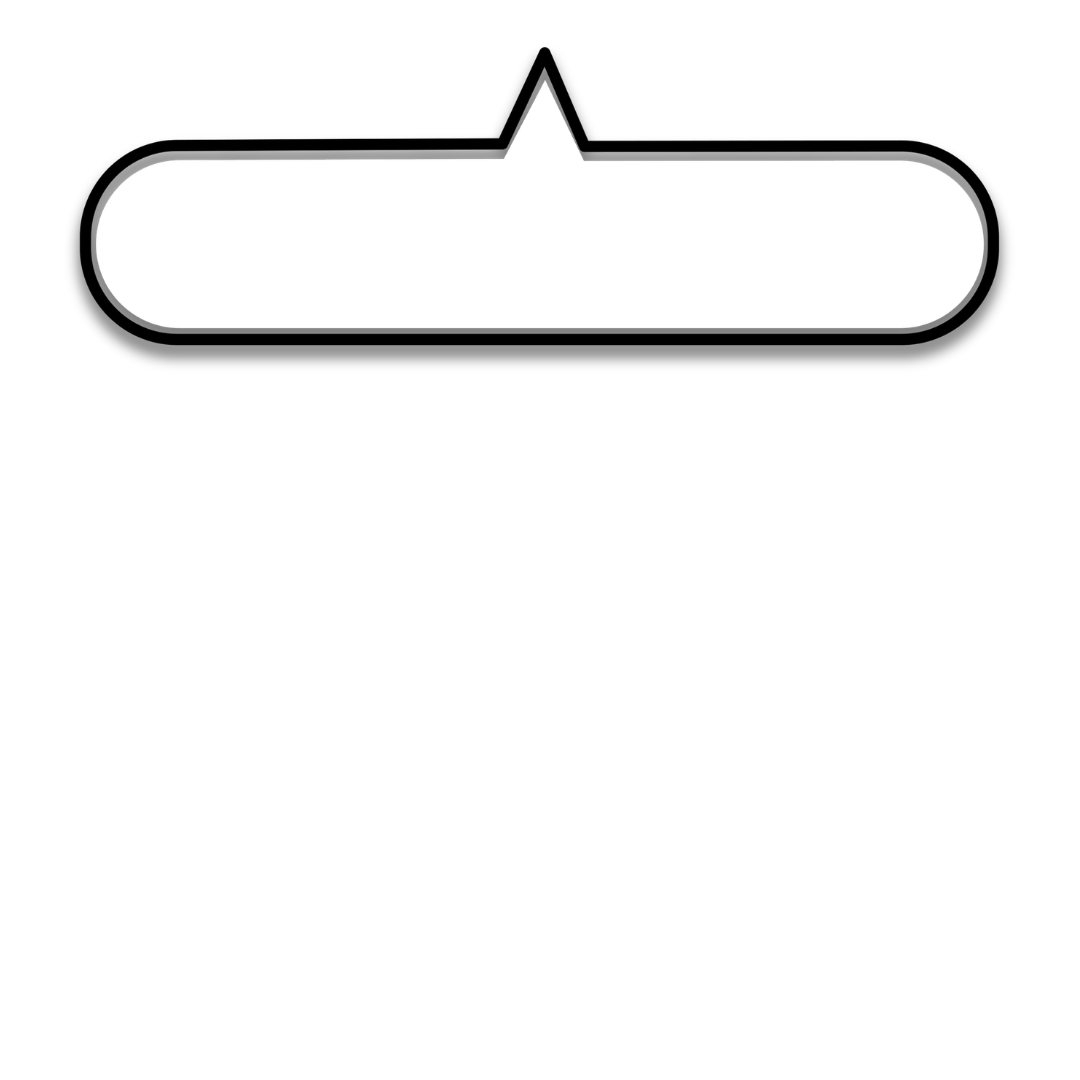
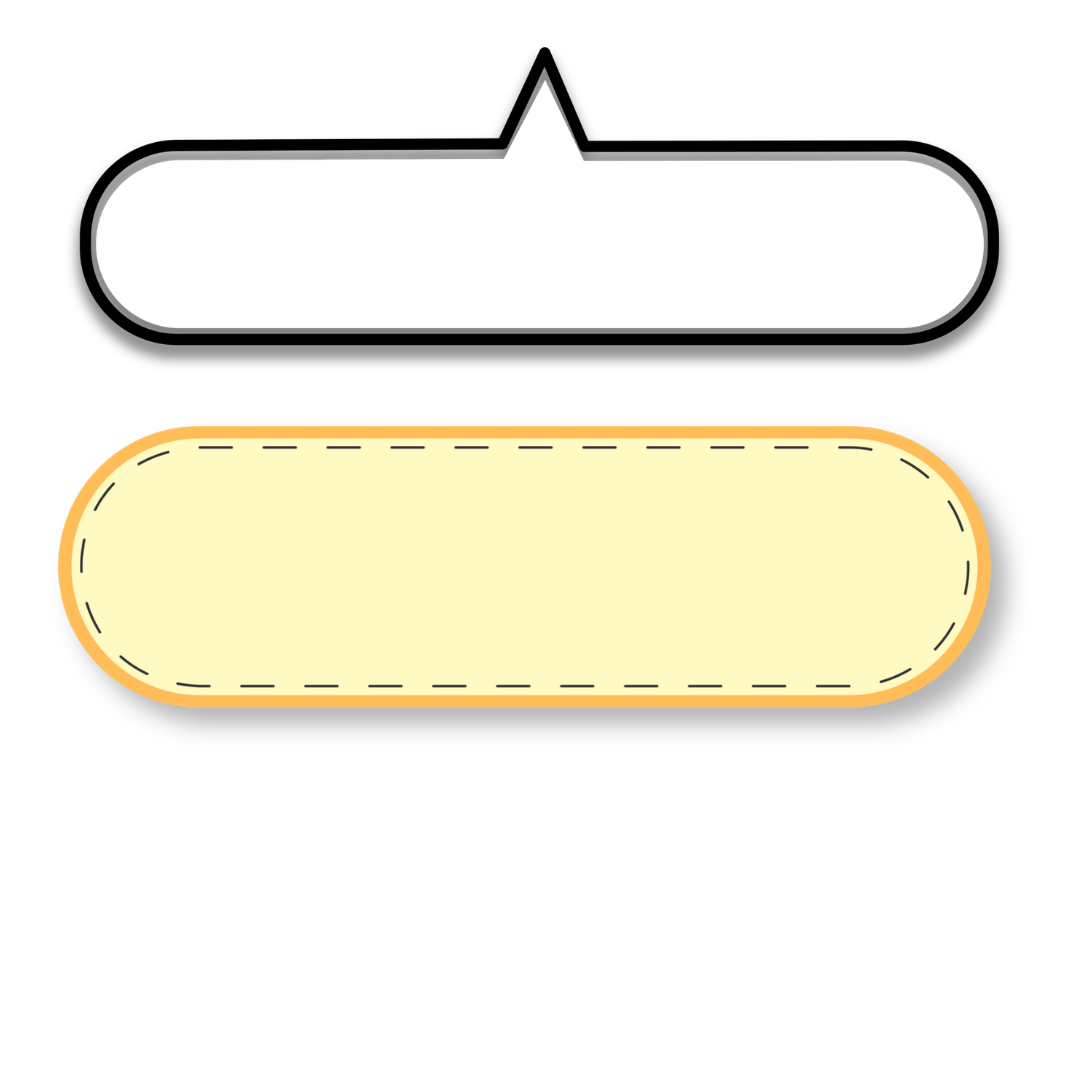
レイアウト完成
残り時間、目標金額をインスペクターから設定可能

Changed region(s): [[0.0306, 0.3972, 0.9472, 0.6722]]

diff --git a/Assets/Scenes/Scripts/Ui/BusUiSlider.cs b/Assets/Scenes/Scripts/Ui/BusUiSlider.cs
@@ -1,4 +1,5 @@
-using UnityEngine;
+using System;
+using UnityEngine;
 using UnityEngine.UI;
 
 /// <summary>
@@ -10,9 +11,10 @@ public class BusUiSlider : MonoBehaviour
     float currentScore;
     Slider scoreSlider;
     Text scoreText;
+	bool isScoreOver = false;//目標金額越えたかどうか
+	public event Action onScoreOver;
 
-
-	private void Start()
+	public void SetStart()
 	{
 		scoreSlider = GetComponent<Slider>();
 		scoreText = transform.GetChild(4).transform.GetChild(0).transform.GetChild(0).transform.GetChild(0).GetComponent<Text>();
@@ -20,6 +22,7 @@ public class BusUiSlider : MonoBehaviour
 		scoreSlider.value = 0;
 		UpDateBusSlider(0);
 
+		//sliderが動くたびに実行される
 		scoreSlider.onValueChanged.AddListener(UpDateBusSlider);
 	}
 
@@ -30,6 +33,7 @@ public class BusUiSlider : MonoBehaviour
 	public void SetClearScore(int _clearScore)
     {
 		clearScore = _clearScore;
+		isScoreOver = false;
 	}
 
 	/// <summary>
@@ -47,6 +51,8 @@ public class BusUiSlider : MonoBehaviour
 	/// </summary>
     public void UpDateBusSlider(float _value)
     {
+		if (isScoreOver) return;
+
 		//スコア更新
 		currentScore = Mathf.Lerp(0, clearScore, scoreSlider.value);
 		scoreText.text = currentScore.ToString("C");//円表示にしてくれる
@@ -81,11 +87,12 @@ public class BusUiSlider : MonoBehaviour
 	/// <returns></returns>
 	public bool CheckBusSilider()
     {
-        if (currentScore >= clearScore)
+		if (currentScore >= clearScore)
         {
             //上限まで行ったらそれ以上増やさない
 			currentScore = clearScore;
-			Debug.Log("クリア");
+			isScoreOver = true;
+			onScoreOver?.Invoke();
 			return true;
         }
 

diff --git a/Assets/Scenes/Scripts/Ui/UiManager.cs b/Assets/Scenes/Scripts/Ui/UiManager.cs
@@ -1,5 +1,4 @@
-using System.Collections;
-using UnityEngine;
+using UnityEngine;
 
 namespace Assets.Scenes.Scripts.Ui
 {
@@ -7,15 +6,36 @@ namespace Assets.Scenes.Scripts.Ui
 	{
 		public BusUiSlider busUiSlider;
 		public UiTimeController timeController;
-
+		[SerializeField,Header("目標金額")]int clearScoreValue;
+		[SerializeField,Header("制限時間")]float timeLimitValue;
+		bool isClear = false;
+		bool isGameOver = false;
 
 		private void Start()
 		{
+			//UI関係の初期化
+			busUiSlider.SetStart();
+			timeController.SetStart();
+
+			//目標金額に到達すると呼ばれる
+			busUiSlider.onScoreOver += () =>
+			{
+				isClear = true;
+				Debug.Log("クリア");
+			};
+
+			//残り時間が０になると呼ばれる
+			timeController.OnTimeOver += () =>
+			{
+				isGameOver = true;
+				Debug.Log("タイムオーバー");
+			};
+
 			//目標金額を設定
-			busUiSlider.SetClearScore(30000);
+			busUiSlider.SetClearScore(clearScoreValue);
 
 			//残り時間を設定
-			timeController.SetTimeLimit(1);
+			timeController.SetTimeLimit(timeLimitValue);
 		}
 	}
 }

diff --git a/Assets/Scenes/Scripts/Ui/UiTimeController.cs b/Assets/Scenes/Scripts/Ui/UiTimeController.cs
@@ -1,5 +1,4 @@
 using System;
-using System.Collections;
 using UnityEngine;
 using UnityEngine.UI;
 
@@ -11,8 +10,10 @@ namespace Assets.Scenes.Scripts.Ui
 		float currentTime;
 		Text timeText;
 		Image timerImage;
+		bool isTimeOver = false;
+		public event Action OnTimeOver;
 
-		private void Start()
+		public void SetStart()
 		{
 			timerImage = transform.GetChild(1).GetComponent<Image>();
 			timeText = transform.GetChild(2).GetComponent<Text>();
@@ -20,6 +21,8 @@ namespace Assets.Scenes.Scripts.Ui
 
 		void Update()
 		{
+			if (isTimeOver) return;
+
 			currentTime -= Time.deltaTime;
 			TimeSpan span = new TimeSpan(0, 0, (int)currentTime);
 			timeText.text = span.ToString(@"mm\:ss");
@@ -28,7 +31,8 @@ namespace Assets.Scenes.Scripts.Ui
 			if (currentTime <= 0)
 			{
 				// 0秒になったときの処理
-				Debug.Log("タイムオーバー");
+				isTimeOver = true;
+				OnTimeOver?.Invoke();
 			}
 		}
 
